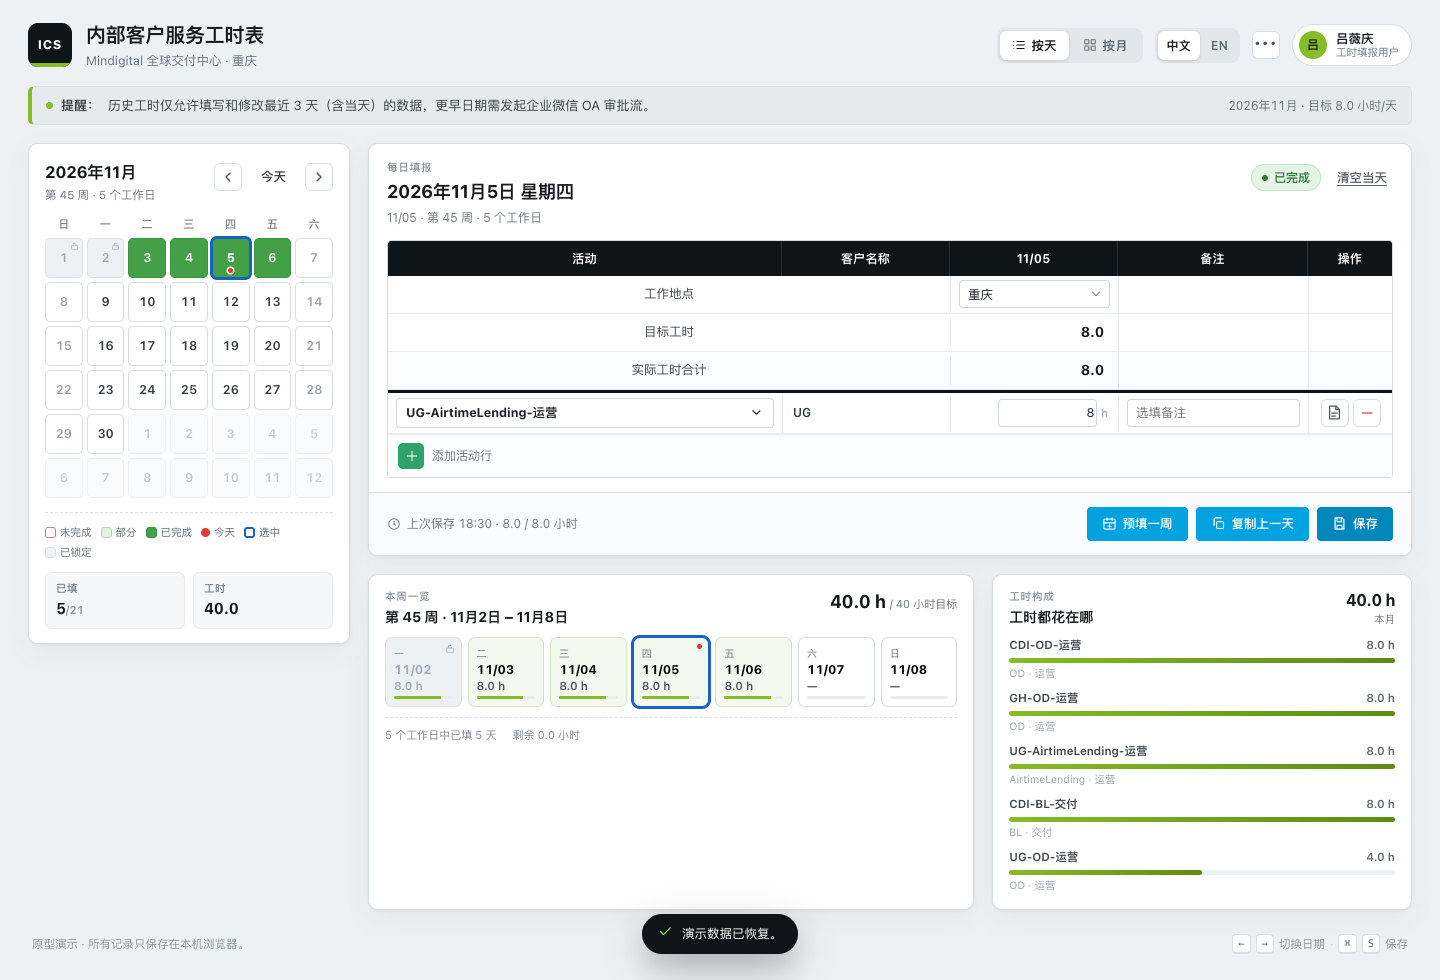
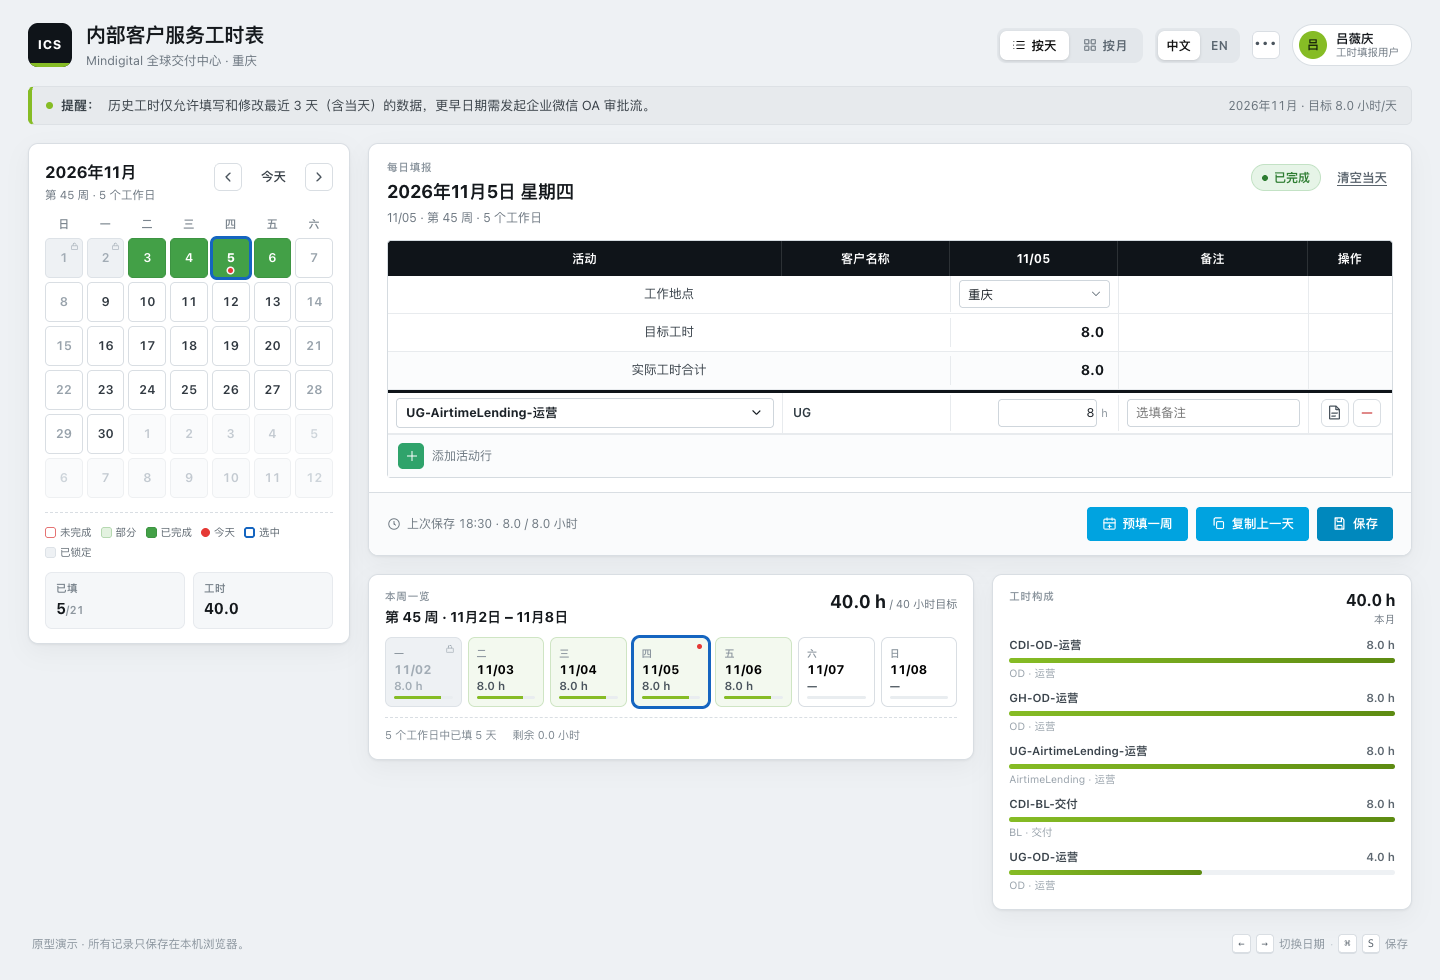
chore: 删除「工时都花在哪」副标题，卡片高度按内容自适应

Changed region(s): [[0.4375, 0.9184, 0.5625, 1.0], [0.2812, 0.7653, 0.6562, 0.7959], [0.6875, 0.6122, 0.7812, 0.6429]]

diff --git a/src/prototypes/timesheet/i18n.tsx b/src/prototypes/timesheet/i18n.tsx
@@ -98,7 +98,6 @@ const DICT: Record<string, Entry> = {
   'ws.remaining': { zh: '剩余 {{hours}} 小时', en: 'Remaining {{hours}} h' },
 
   'mix.kicker': { zh: '工时构成', en: 'Activity mix' },
-  'mix.title': { zh: '工时都花在哪', en: 'Where the hours went' },
   'mix.month': { zh: '本月', en: 'this month' },
   'mix.empty': {
     zh: '本月还没有记录，保存一天后就能看到构成。',

diff --git a/src/prototypes/timesheet/ActivityMix.tsx b/src/prototypes/timesheet/ActivityMix.tsx
@@ -33,7 +33,6 @@ export default function ActivityMix({ year, month, days }: Props) {
       <header className="mix-head">
         <div>
           <span className="editor-kicker">{t('mix.kicker')}</span>
-          <h3>{t('mix.title')}</h3>
         </div>
         <div className="mix-total">
           <strong>{sum.toFixed(1)} h</strong>

diff --git a/src/prototypes/timesheet/timesheet.css b/src/prototypes/timesheet/timesheet.css
@@ -313,6 +313,7 @@ input[type='number'] {
   display: grid;
   grid-template-columns: minmax(0, 1.3fr) minmax(0, 0.9fr);
   gap: 18px;
+  align-items: start;
 }
 
 .card {
